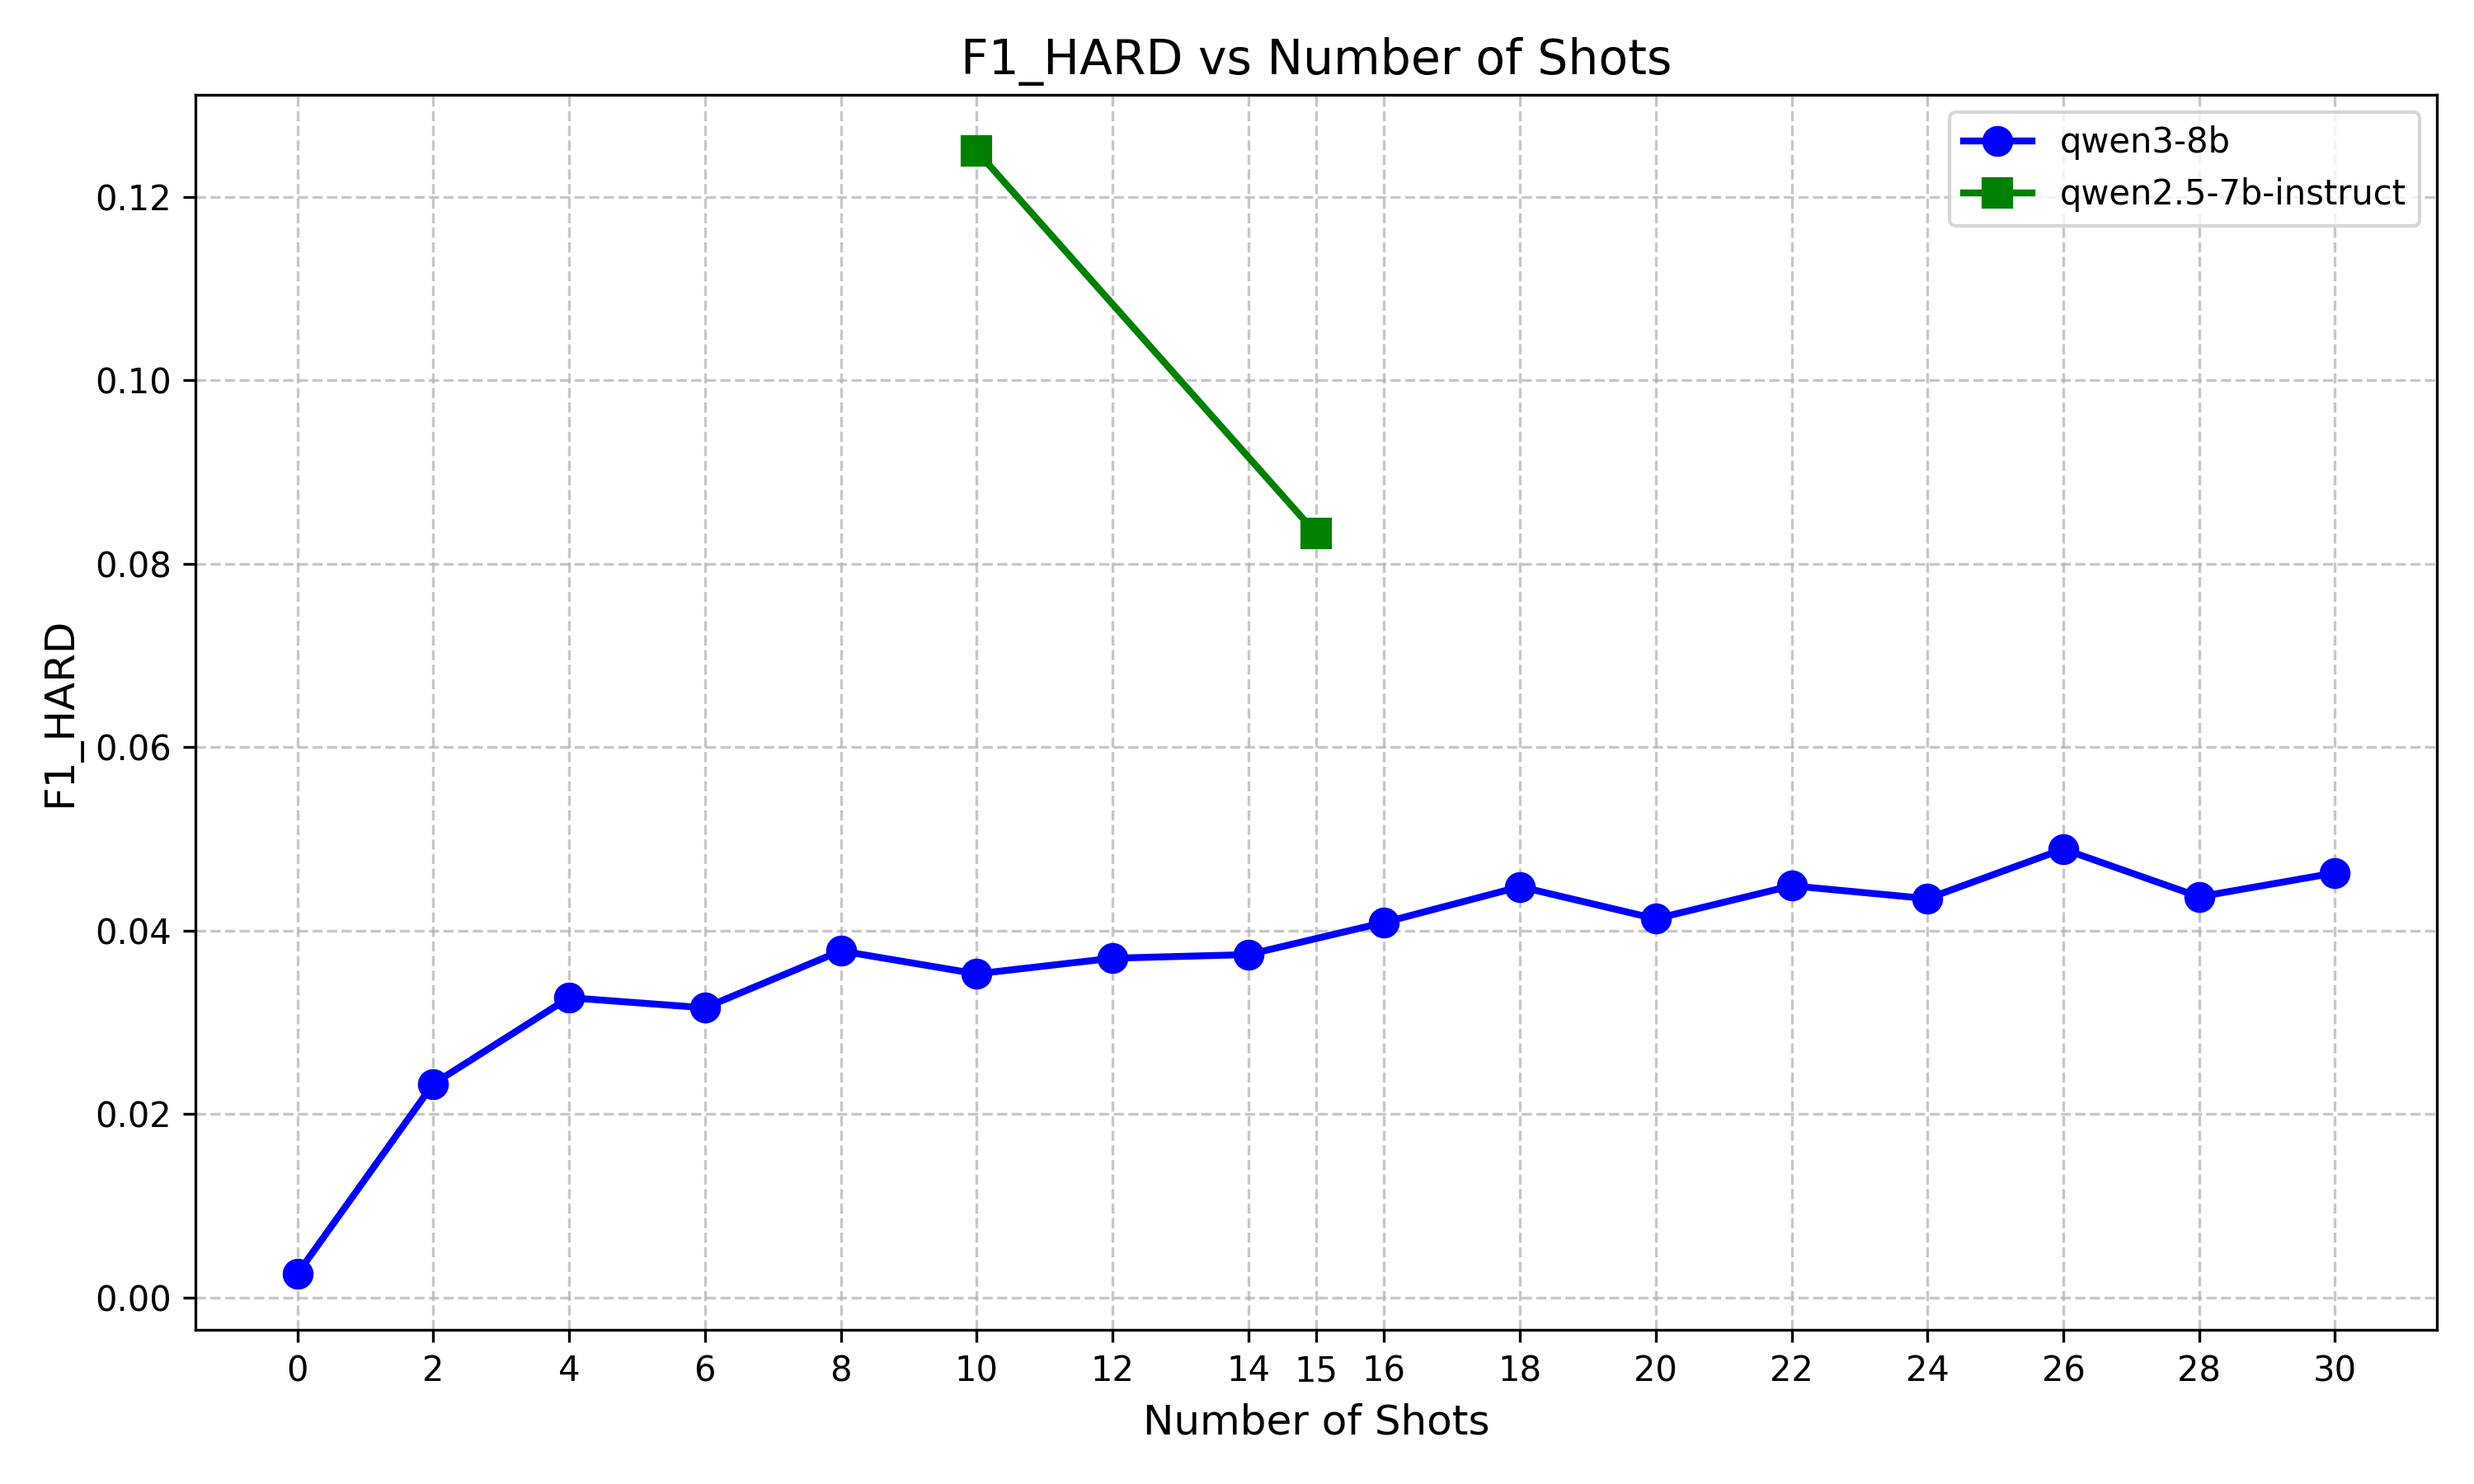
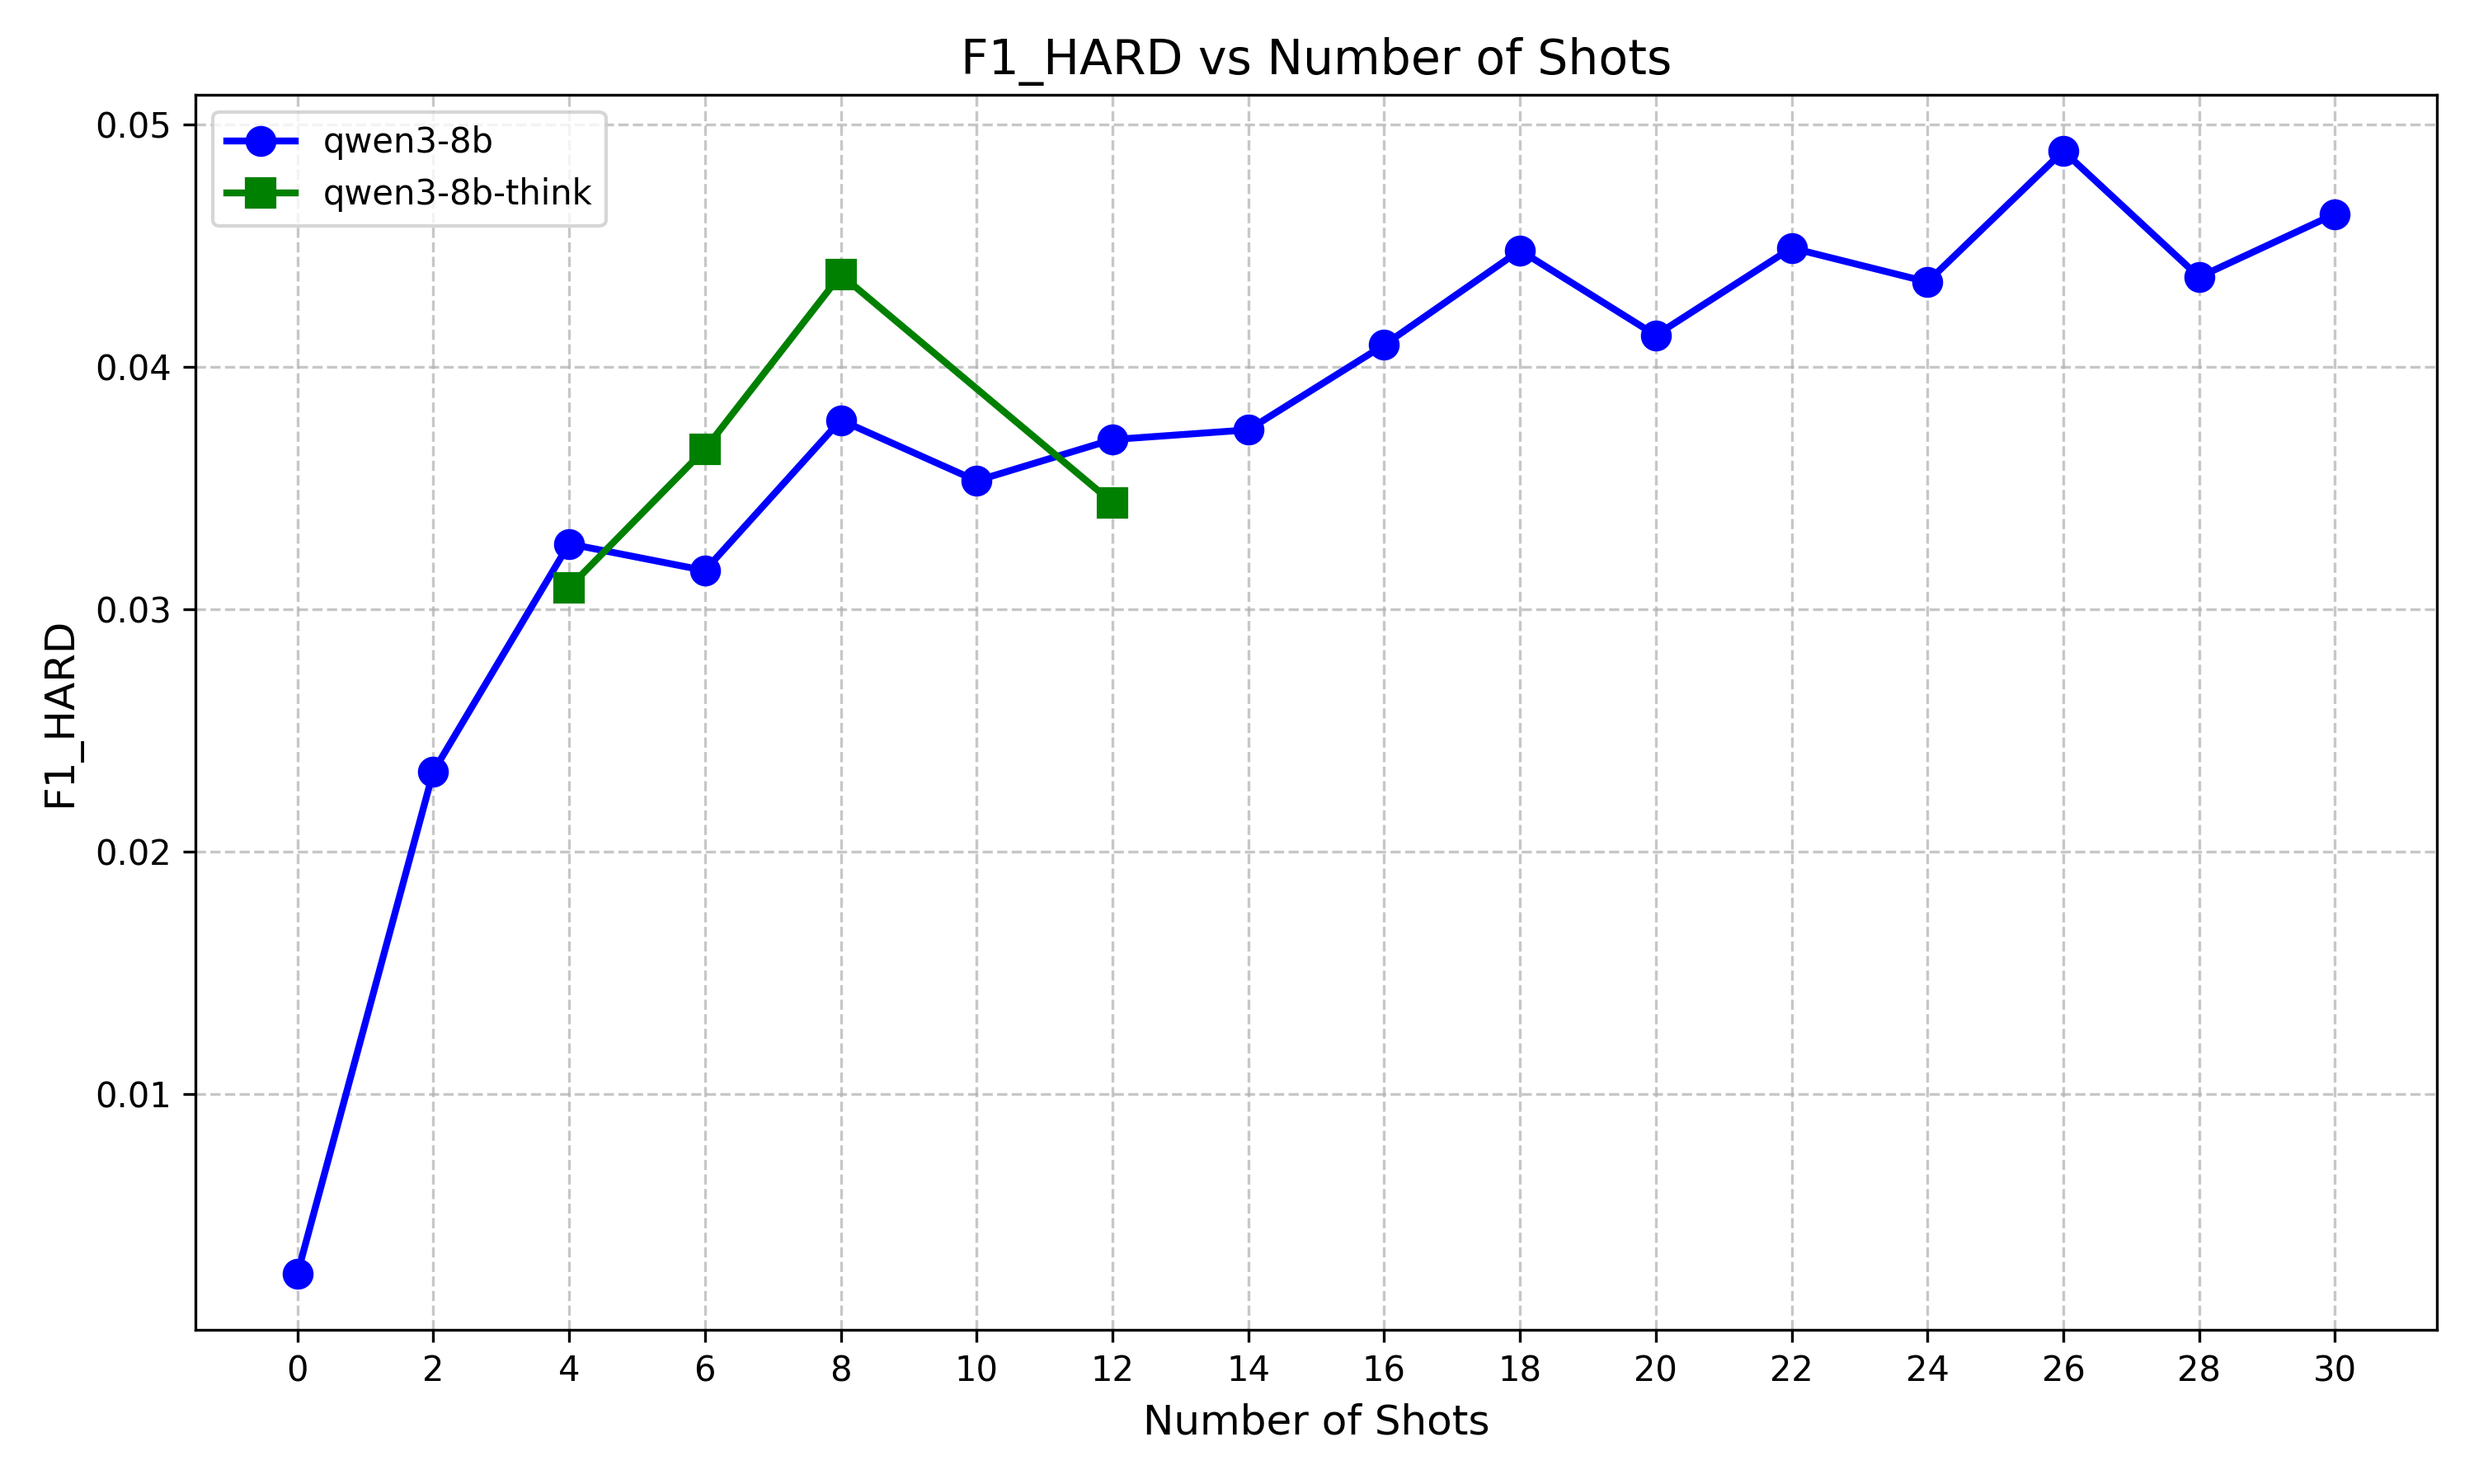
modify model name

diff --git a/tools/draw_line.py b/tools/draw_line.py
@@ -11,6 +11,7 @@ SAVE_DIR = "few_shot/fig"
 METRICS = ["f1_soft", "f1_hard", "f1_avg"]
 COLORS = ['b', 'g', 'r', 'c', 'm', 'y', 'k']  # 不同模型的颜色
 MARKERS = ['o', 's', '^', 'D', 'v', '<', '>']  # 不同模型的标记
+MODELS = ["qwen3-8b", "qwen3-8b-think"]
 
 os.makedirs(SAVE_DIR, exist_ok=True)
 
@@ -28,12 +29,13 @@ for filename in os.listdir(DATA_DIR):
             filepath = os.path.join(DATA_DIR, filename)
             
             try:
-                with open(filepath, 'r') as f:
-                    data = json.load(f)
-                    if "metric" in data:
-                        for metric in METRICS:
-                            if metric in data["metric"]:
-                                results[model][shot][metric] = data["metric"][metric]
+                if model in MODELS:
+                    with open(filepath, 'r') as f:
+                        data = json.load(f)
+                        if "metric" in data:
+                            for metric in METRICS:
+                                if metric in data["metric"]:
+                                    results[model][shot][metric] = data["metric"][metric]
             except Exception as e:
                 print(f"Error processing {filename}: {str(e)}")
 

diff --git a/few_shot/run.py b/few_shot/run.py
@@ -627,7 +627,7 @@ if __name__ == "__main__" :
     # )
 
     model = ApiLLMModel(
-        model_name="qwen3-8b_think",
+        model_name="qwen3-8b-think",
         api_base="http://127.0.0.1:5001/v2/",
         api_key='23333333',
         system_prompt=TRAIN_PROMPT_ZERO_SHOT_V2,
